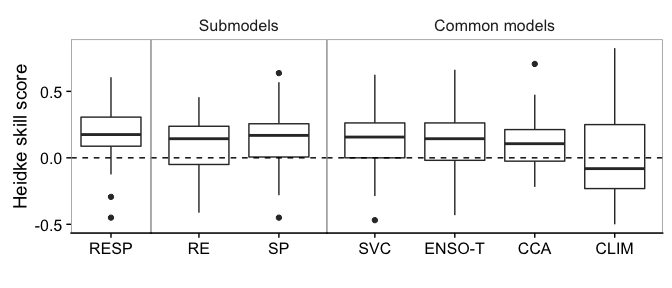
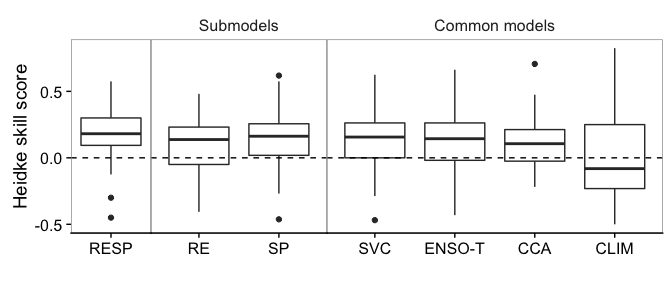
updating figures

diff --git a/_research/resp_example.md b/_research/resp_example.md
@@ -126,14 +126,14 @@ str(fit$parameters$samples)
 ```
 
     ## List of 8
-    ##  $ beta         : num [1:21000, 1:2] -0.08832 -0.03911 0.00985 -0.07779 -0.01186 ...
-    ##  $ sigmasq_y    : num [1:21000, 1] 0.186 0.178 0.186 0.223 0.215 ...
-    ##  $ sigmasq_r    : num [1:21000, 1] 1.84 1.93 1.93 1.93 1.93 ...
+    ##  $ beta         : num [1:21000, 1:2] -0.00943 -0.00378 -0.00467 -0.01297 0.00962 ...
+    ##  $ sigmasq_y    : num [1:21000, 1] 0.0683 0.0673 0.0702 0.0727 0.0725 ...
+    ##  $ sigmasq_r    : num [1:21000, 1] 1.6 1.58 1.79 1.79 3.32 ...
     ##  $ sigmasq_r_eps: num [1:21000, 1] 0 0 0 0 0 0 0 0 0 0 ...
-    ##  $ sigmasq_eps  : num [1:21000, 1] 0.724 0.682 0.492 0.492 0.436 ...
-    ##  $ rho_y        : num [1:21000, 1] 342 322 322 310 263 ...
-    ##  $ rho_r        : num [1:21000, 1] 186 189 212 212 240 ...
-    ##  $ ll           : num [1:21000, 1] -3058 -3274 -3970 -3164 -3405 ...
+    ##  $ sigmasq_eps  : num [1:21000, 1] 3.51 3.51 3.11 2.99 2.64 ...
+    ##  $ rho_y        : num [1:21000, 1] 73.1 73.1 73.1 73.1 73.1 ...
+    ##  $ rho_r        : num [1:21000, 1] 606 606 606 596 596 ...
+    ##  $ ll           : num [1:21000, 1] 889 900 1100 1164 1377 ...
 
 ``` r
 # estimate teleconnection effects and make predictions
@@ -162,16 +162,16 @@ str(fcst$pred[[1]]$err)
 ```
 
     ## List of 10
-    ##  $ mspe          : num 0.614
-    ##  $ ppl           : num 160
-    ##  $ r2            : num -0.0234
-    ##  $ cor           : num -0.0411
-    ##  $ coverage      : num 0.867
-    ##  $ cat.correct   : num 0.246
-    ##  $ cat.heidke    : num -0.105
-    ##  $ cat.heidke.alt: num -0.131
-    ##  $ crps.cat      : num 0.496
-    ##  $ bss           : num -0.00417
+    ##  $ mspe          : num 0.613
+    ##  $ ppl           : num 211
+    ##  $ r2            : num -0.0136
+    ##  $ cor           : num -0.00967
+    ##  $ coverage      : num 0.954
+    ##  $ cat.correct   : num 0.25
+    ##  $ cat.heidke    : num -0.0592
+    ##  $ cat.heidke.alt: num -0.125
+    ##  $ crps.cat      : num 0.481
+    ##  $ bss           : num -0.00302
 
 ``` r
 # compute VIFs
@@ -180,14 +180,14 @@ vif$beta
 ```
 
     ## (Intercept)           T 
-    ##    1.000000    1.060935
+    ##    1.000000    1.071419
 
 ``` r
 summary(vif$alpha)
 ```
 
     ##    Min. 1st Qu.  Median    Mean 3rd Qu.    Max. 
-    ##  0.9588  0.9706  0.9750  0.9767  0.9832  0.9985
+    ##  0.9615  0.9724  0.9776  0.9787  0.9852  0.9979
 
 Plots and output
 ================
@@ -411,13 +411,13 @@ df
 ```
 
     ##                                        Posterior mean          95\\% HPD
-    ## Local effects               $\\beta_0$        $-$0.00     ($-$0.1, 0.09)
-    ##                             $\\beta_T$        $-$0.19 ($-$0.24, $-$0.14)
-    ##                          $\\sigma^2_w$           0.33       (0.31, 0.35)
-    ##                    $\\sigma^2_\\alpha$           4.13       (1.07, 8.22)
-    ## Covariance    $\\sigma^2_\\varepsilon$           0.03       (0.02, 0.03)
-    ##                              $\\rho_w$         178.00         (166, 191)
-    ##                        $\\rho_\\alpha$         483.00         (242, 743)
+    ## Local effects               $\\beta_0$        $-$0.00    ($-$0.14, 0.14)
+    ##                             $\\beta_T$        $-$0.18 ($-$0.24, $-$0.12)
+    ##                          $\\sigma^2_w$           0.55       (0.49, 0.62)
+    ##                    $\\sigma^2_\\alpha$           6.05      (1.04, 14.81)
+    ## Covariance    $\\sigma^2_\\varepsilon$           0.01       (0.01, 0.01)
+    ##                              $\\rho_w$         248.00         (220, 280)
+    ##                        $\\rho_\\alpha$         509.00         (266, 799)
 
 Posterior predictive maps
 -------------------------
